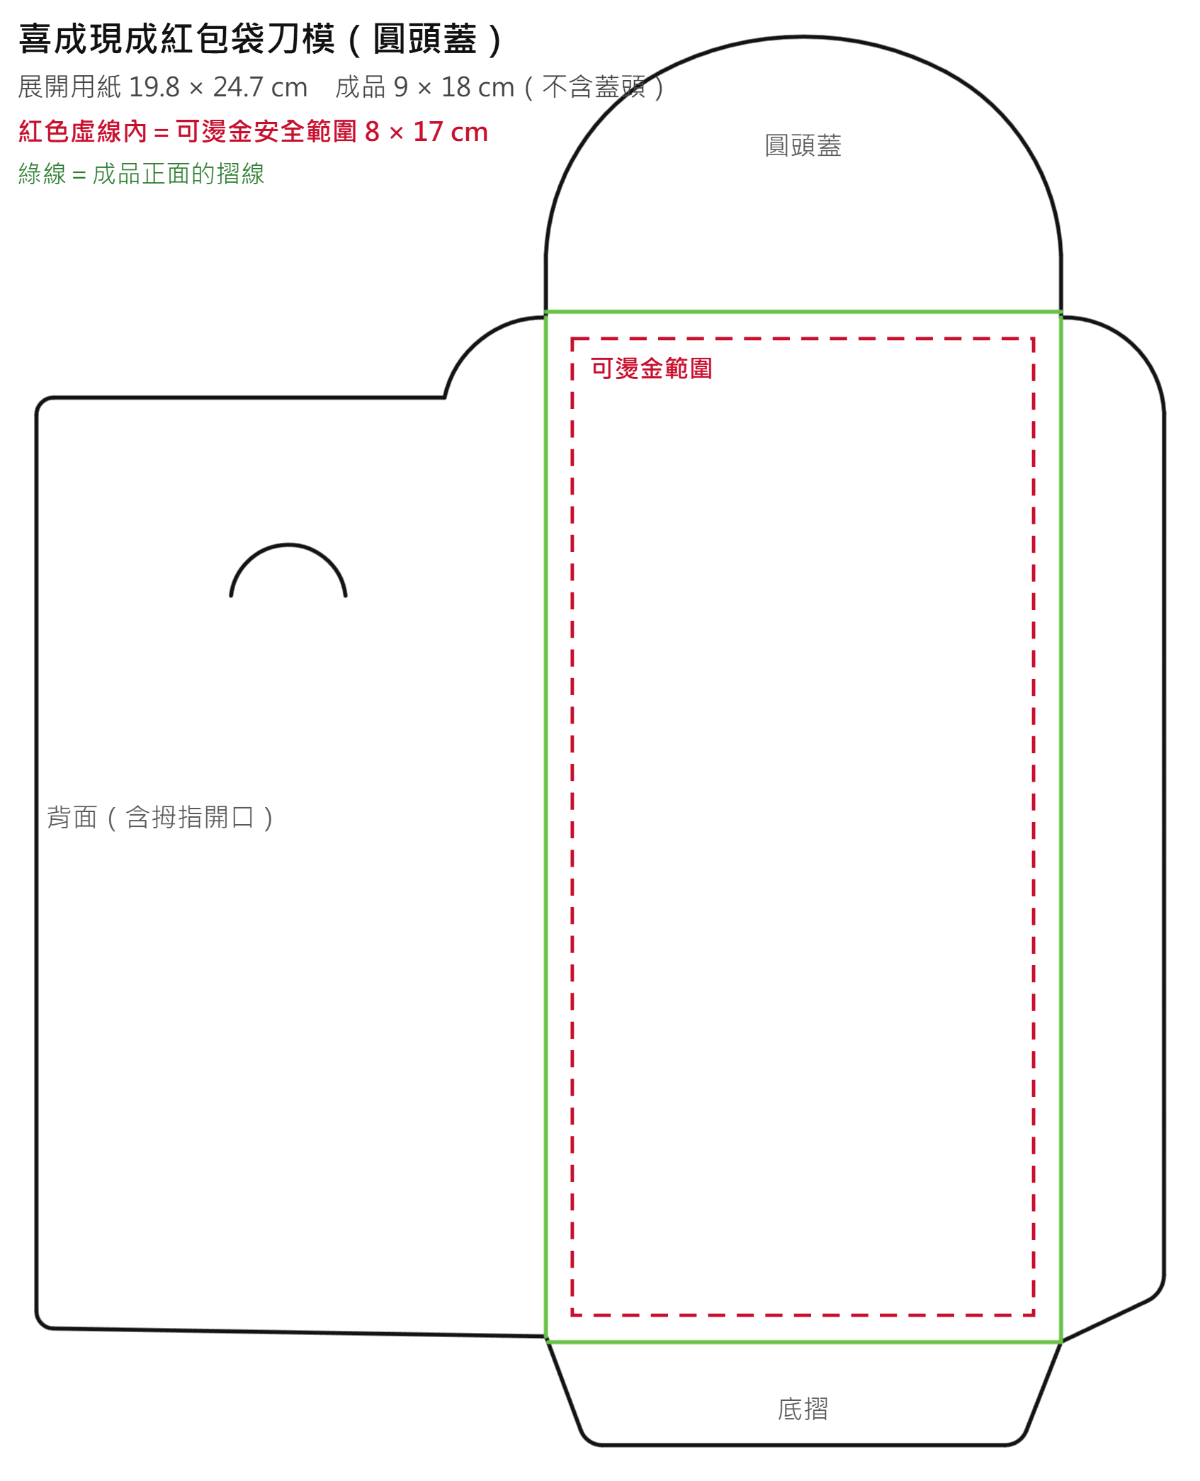
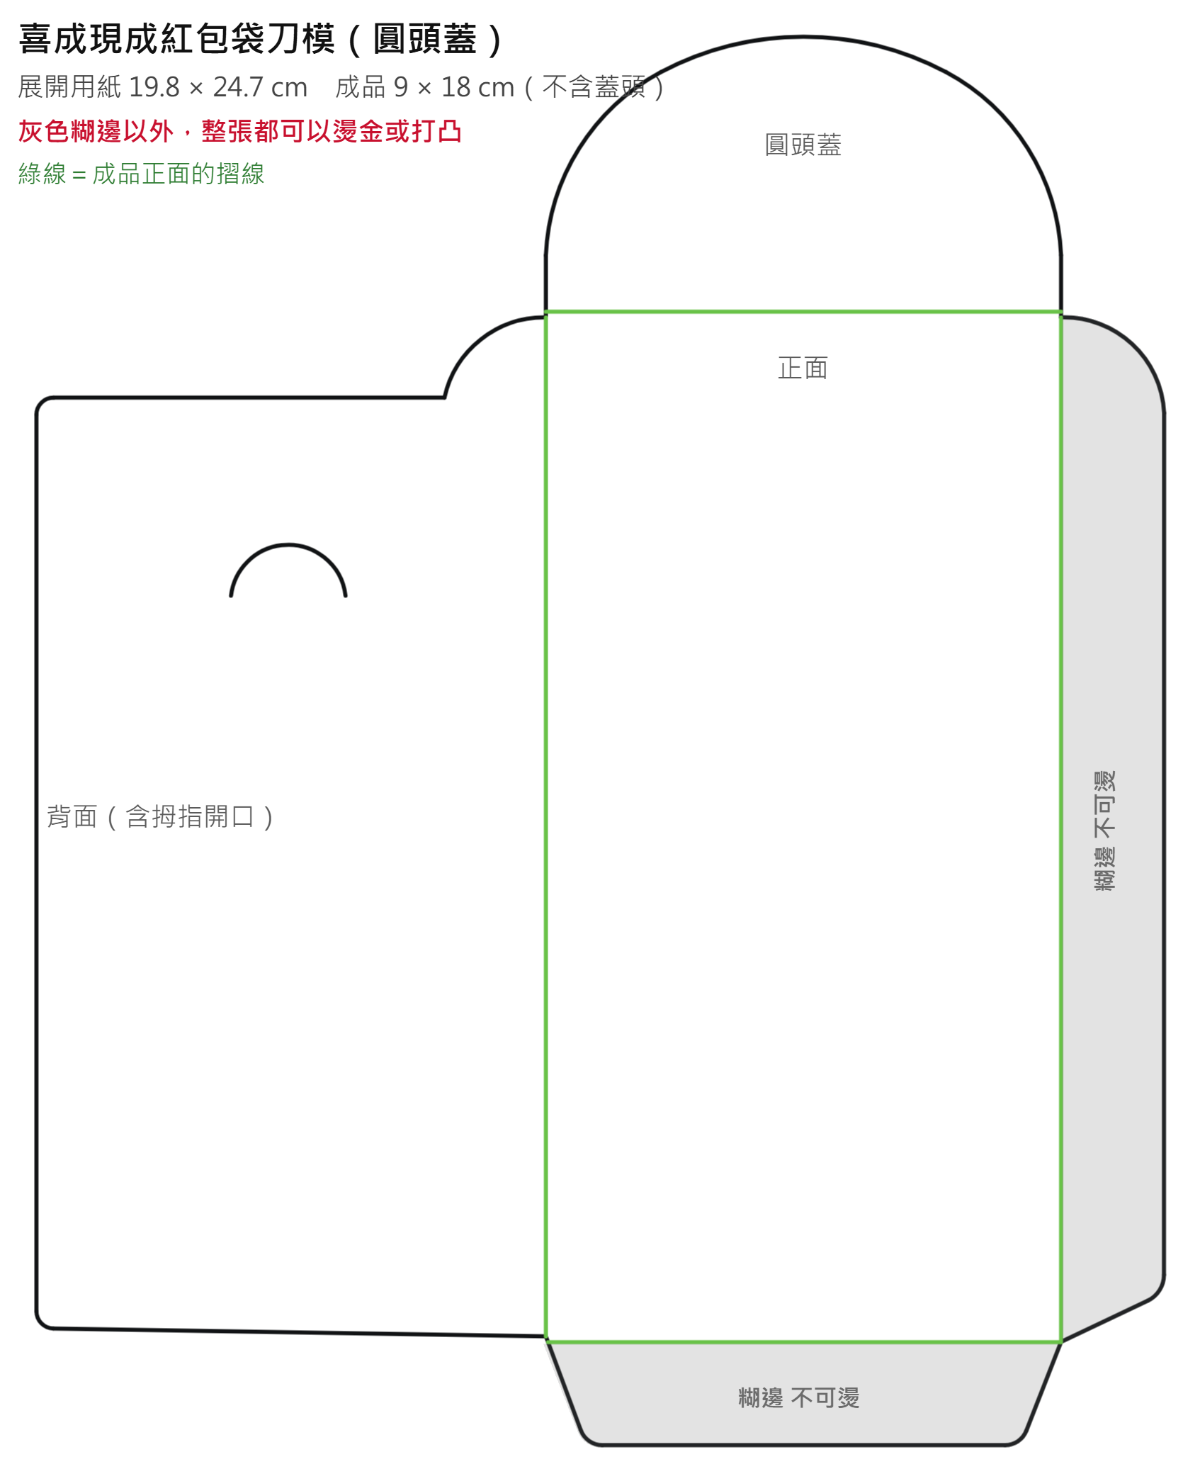
紅包袋：可燙金打凸範圍改為除糊邊外全部；刀模圖改標糊邊；代裝每袋確認

diff --git a/envelope/index.html b/envelope/index.html
@@ -513,8 +513,8 @@ section[id]{ scroll-margin-top:76px }
                    onload="this.closest('figure').style.display=''"
                    onerror="this.closest('figure').remove()">
               <figcaption class="mt-1.5 text-[11.5px] text-[#8F8674] leading-5">
-                我們這支刀模的展開圖。<span class="text-crimson-soft">紅色虛線內</span>是可燙金範圍，
-                綠線是成品正面的摺線。要出稿可以直接照這張的比例擺圖。
+                我們這支刀模的展開圖。<span class="text-crimson-soft">灰色的糊邊不能燙金或打凸</span>，
+                其餘整張都可以；綠線是成品正面的摺線。要出稿可以直接照這張的比例擺圖。
               </figcaption>
             </figure>
             <p id="dieNote" class="text-[12px] text-[#8F8674] mt-2 leading-5"></p>
@@ -995,9 +995,8 @@ var PRICE = {
        ‧長袋 每個 1.25 元 → 適合「中式花頭蓋」與「圓頭蓋」的紅包袋
        ‧兩種都是一個袋子最多裝 5 個紅包袋
        ‧需要代裝服務的話，每裝一個 3 元
-     📌「每裝一個 3 元」照**袋**算（packPer:'bag'）：老闆同一段話裡的「每個」
-        指的都是 OPP 袋（「每個最多可裝5個」「短的每個1元」），所以代裝也解讀成每袋。
-        若老闆的意思是每裝一個紅包袋 3 元，把 packPer 改成 'piece' 就好，其他不用動。
+     📌「代裝每裝一個 3 元」＝**每一袋 3 元**（老闆 2026-11-18 親口確認，不是推測）。
+        packPer:'bag' 就是這個意思；'piece' 那條路留著沒用到，不要自己改。
      ⚠ 袋型是跟著蓋型自動判定的，不讓客人自己選錯（平頭蓋→短袋，其餘→長袋）。 */
   opp: {
     per: 5,
@@ -1030,11 +1029,14 @@ var PRICE = {
            成品正面（綠色摺線框）　　　　　＝ 9 × 18 公分（不含蓋頭）→ 跟公版 18×9 同規格
            蓋型＝圓頭蓋；背面有半圓拇指開口
          老闆說的「22 × 27 公分」是**備料尺寸**（展開外框再加裁切與咬口邊），落數照這個抓沒錯。
-         可燙金安全範圍＝成品正面四邊各內縮 0.5 公分 ＝ 8 × 17 公分（136 平方公分）。
-         ⚠ 這只是「畫得下」的範圍；工費分檔仍看 foilArea 的 90 平方公分（6×15），超過算滿版那檔。 */
+         ★ 可燙金／打凸範圍（老闆 2026-11-18 第三次補充）：「全部都可以燙金打凸，除了糊邊不行」
+           → 不是只有正面那一格：正面、背面、蓋頭、整張攤平都能做，
+             唯一不能碰的是**糊邊**（刀模圖右側那條窄片與底摺，塗灰的那兩塊，各約 1.8 公分寬）。
+           ⚠ 這是「做得到」的範圍；工費分檔仍看 foilArea 的 90 平方公分（6×15），超過算滿版那檔。
+           （先前我標的「安全範圍 8 × 17」已作廢，別再拿來用。） */
       dieOuter: { w:19.8, h:24.7 },
       dieFront: { w:9, h:18 },
-      foilSafe: { w:8, h:17 },
+      glueEdgeCm: 1.8,
       glueUnit: 3,          // 糊型（成型）每個 3 元 —— 老闆 2026-11-18 給的確定值
       /* ★ 軋型工資（老闆 2026-11-18 第二次補的**確定值**，紅包袋專屬）：
            「紅包袋軋型基本費用是 1200，軋一個 2 元」
@@ -1718,8 +1720,9 @@ function applyDieBox(){
     '展開外框 ' + C.dieOuter.w + ' × ' + C.dieOuter.h + ' 公分，' +
     '加上裁切與咬口邊，一個要用掉 <span class="text-gold-light">' + C.dieBlank.w + ' × ' + C.dieBlank.h +
     ' 公分</span>的紙——上面的每個紙錢就是照這個尺寸排出來的。<br>' +
-    '<span class="text-gold-light">可燙金範圍：正面 ' + C.foilSafe.w + ' × ' + C.foilSafe.h +
-    ' 公分</span>（圖上紅色虛線內，四邊各留 0.5 公分避開摺線與裁切誤差）。' +
+    '<span class="text-gold-light">可燙金／打凸範圍：除了糊邊，整張都可以做</span>' +
+    '——正面、背面、蓋頭都行，只有圖上塗灰的那兩塊糊邊（右側窄條與底摺，各約 ' +
+    C.glueEdgeCm + ' 公分寬）不能壓，壓了會黏不牢。<br>' +
     '燙印面積在 ' + FA.label + '（' + FA.cm2 + ' 平方公分）以內算「正常面積」，超過就跳到滿版那一檔；' +
     (f.canPrint ? '蓋面也可以另外燙，算另一塊版。' : '平頭蓋沒有蓋面可燙，只燙袋身。') + '<br>' +
     (f.die ? '這個蓋型用我們現成的刀模，<span class="text-gold-light">不收刀模費</span>。'

diff --git a/site/shop/envelope/index.html b/site/shop/envelope/index.html
@@ -513,8 +513,8 @@ section[id]{ scroll-margin-top:76px }
                    onload="this.closest('figure').style.display=''"
                    onerror="this.closest('figure').remove()">
               <figcaption class="mt-1.5 text-[11.5px] text-[#8F8674] leading-5">
-                我們這支刀模的展開圖。<span class="text-crimson-soft">紅色虛線內</span>是可燙金範圍，
-                綠線是成品正面的摺線。要出稿可以直接照這張的比例擺圖。
+                我們這支刀模的展開圖。<span class="text-crimson-soft">灰色的糊邊不能燙金或打凸</span>，
+                其餘整張都可以；綠線是成品正面的摺線。要出稿可以直接照這張的比例擺圖。
               </figcaption>
             </figure>
             <p id="dieNote" class="text-[12px] text-[#8F8674] mt-2 leading-5"></p>
@@ -995,9 +995,8 @@ var PRICE = {
        ‧長袋 每個 1.25 元 → 適合「中式花頭蓋」與「圓頭蓋」的紅包袋
        ‧兩種都是一個袋子最多裝 5 個紅包袋
        ‧需要代裝服務的話，每裝一個 3 元
-     📌「每裝一個 3 元」照**袋**算（packPer:'bag'）：老闆同一段話裡的「每個」
-        指的都是 OPP 袋（「每個最多可裝5個」「短的每個1元」），所以代裝也解讀成每袋。
-        若老闆的意思是每裝一個紅包袋 3 元，把 packPer 改成 'piece' 就好，其他不用動。
+     📌「代裝每裝一個 3 元」＝**每一袋 3 元**（老闆 2026-11-18 親口確認，不是推測）。
+        packPer:'bag' 就是這個意思；'piece' 那條路留著沒用到，不要自己改。
      ⚠ 袋型是跟著蓋型自動判定的，不讓客人自己選錯（平頭蓋→短袋，其餘→長袋）。 */
   opp: {
     per: 5,
@@ -1030,11 +1029,14 @@ var PRICE = {
            成品正面（綠色摺線框）　　　　　＝ 9 × 18 公分（不含蓋頭）→ 跟公版 18×9 同規格
            蓋型＝圓頭蓋；背面有半圓拇指開口
          老闆說的「22 × 27 公分」是**備料尺寸**（展開外框再加裁切與咬口邊），落數照這個抓沒錯。
-         可燙金安全範圍＝成品正面四邊各內縮 0.5 公分 ＝ 8 × 17 公分（136 平方公分）。
-         ⚠ 這只是「畫得下」的範圍；工費分檔仍看 foilArea 的 90 平方公分（6×15），超過算滿版那檔。 */
+         ★ 可燙金／打凸範圍（老闆 2026-11-18 第三次補充）：「全部都可以燙金打凸，除了糊邊不行」
+           → 不是只有正面那一格：正面、背面、蓋頭、整張攤平都能做，
+             唯一不能碰的是**糊邊**（刀模圖右側那條窄片與底摺，塗灰的那兩塊，各約 1.8 公分寬）。
+           ⚠ 這是「做得到」的範圍；工費分檔仍看 foilArea 的 90 平方公分（6×15），超過算滿版那檔。
+           （先前我標的「安全範圍 8 × 17」已作廢，別再拿來用。） */
       dieOuter: { w:19.8, h:24.7 },
       dieFront: { w:9, h:18 },
-      foilSafe: { w:8, h:17 },
+      glueEdgeCm: 1.8,
       glueUnit: 3,          // 糊型（成型）每個 3 元 —— 老闆 2026-11-18 給的確定值
       /* ★ 軋型工資（老闆 2026-11-18 第二次補的**確定值**，紅包袋專屬）：
            「紅包袋軋型基本費用是 1200，軋一個 2 元」
@@ -1718,8 +1720,9 @@ function applyDieBox(){
     '展開外框 ' + C.dieOuter.w + ' × ' + C.dieOuter.h + ' 公分，' +
     '加上裁切與咬口邊，一個要用掉 <span class="text-gold-light">' + C.dieBlank.w + ' × ' + C.dieBlank.h +
     ' 公分</span>的紙——上面的每個紙錢就是照這個尺寸排出來的。<br>' +
-    '<span class="text-gold-light">可燙金範圍：正面 ' + C.foilSafe.w + ' × ' + C.foilSafe.h +
-    ' 公分</span>（圖上紅色虛線內，四邊各留 0.5 公分避開摺線與裁切誤差）。' +
+    '<span class="text-gold-light">可燙金／打凸範圍：除了糊邊，整張都可以做</span>' +
+    '——正面、背面、蓋頭都行，只有圖上塗灰的那兩塊糊邊（右側窄條與底摺，各約 ' +
+    C.glueEdgeCm + ' 公分寬）不能壓，壓了會黏不牢。<br>' +
     '燙印面積在 ' + FA.label + '（' + FA.cm2 + ' 平方公分）以內算「正常面積」，超過就跳到滿版那一檔；' +
     (f.canPrint ? '蓋面也可以另外燙，算另一塊版。' : '平頭蓋沒有蓋面可燙，只燙袋身。') + '<br>' +
     (f.die ? '這個蓋型用我們現成的刀模，<span class="text-gold-light">不收刀模費</span>。'
